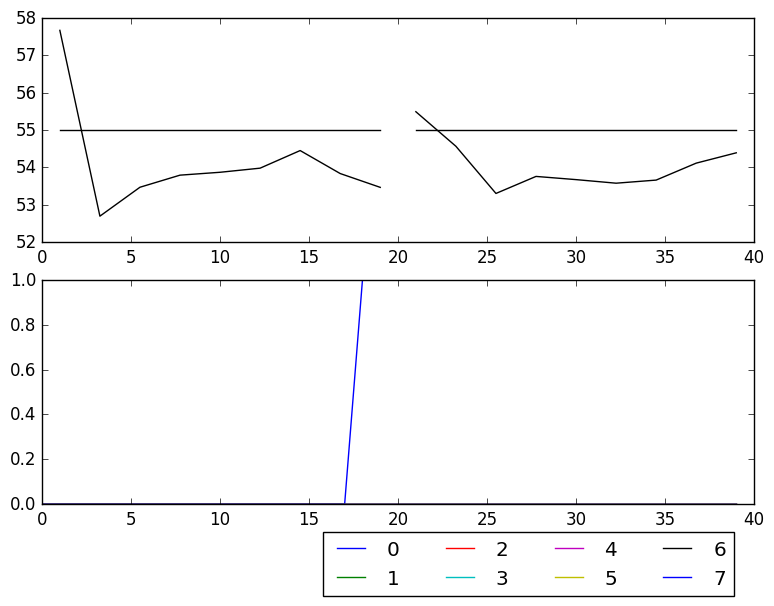
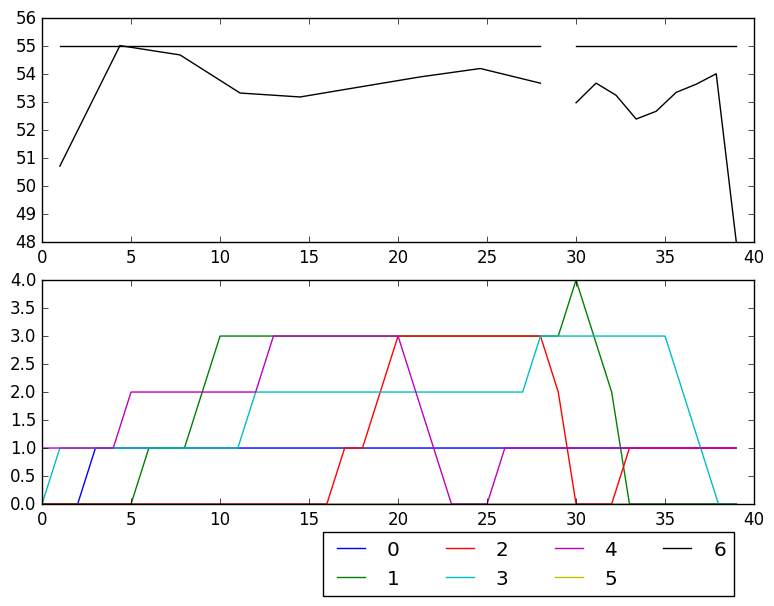
destination setting with ea

diff --git a/ea/sim_eval.py b/ea/sim_eval.py
@@ -21,10 +21,13 @@ class Stockyard(object):
     
 
     piles = None # rehandle stockpiles
+    stockpile_state = None # stockpile build model - indicates whether stockyard is in build or destroy mode  
+    stockpile_capacity = 4
+    
     npiles = 0 # number of rehandle stockpiles
     piles_n = None # number of blocks on stockpiles at timestep n     
     
-    def __init__(self,low, high, num_piles,ntime):
+    def __init__(self,low, high, num_piles,ntime, s_capacity=4):
         
         self.ntime = ntime
         self.piles = np.array(range (num_piles))
@@ -36,6 +39,8 @@ class Stockyard(object):
         # list of empty stacks: empty stockpiles
         self.stocks = [[] for i in range(num_piles)] #a = [[0] * number_cols for i in range(number_rows)]
         #self.example_thresholds()
+        self.stockpile_state = [1 for i in range(num_piles)] # 1 means pile is in build mode
+        self.stockpile_capacity = s_capacity
         
         
 
@@ -56,18 +61,20 @@ class Stockyard(object):
         print self.stocks_limits
         
 
+
+
     def set_example_thresholds(self):
-        self.npiles = NUM_PILES
+        #self.npiles = NUM_PILES
         self.stocks_limits = np.zeros((self.npiles,2))
         # pile zero is default catch all pile / dump - not used to reclaim
         self.stocks_limits = np.array([\
                                        [0,0],\
-                                       [50,57.5],\
-                                       [57.5,59],\
-                                       [59,60],\
-                                       [60,61],\
-                                       [55,57],\
-                                       [61,66]])
+                                       [48,51],\
+                                       [51,54],\
+                                       [54,57],\
+                                       [57,60],\
+                                       [61,63],\
+                                       [64,66]])
         # sort by the lower threshold:
         self.stocks_limits = self.stocks_limits[self.stocks_limits[:,0].argsort()]                              
         # min = 55, max = 66
@@ -96,13 +103,15 @@ class Stockyard(object):
         # get stockpile index
         # pile zero is default catch all pile / dump 
         # can set to -1 if not using catch all pile and raise exception or define other behaviour
+
         assert len(self.stocks) == len(self.stocks_limits), "%s %s" % (len(self.stocks) ,len(self.stocks_limits))
         
         pile_index = 0
         for ind in range(1,len(self.stocks)):
             if ( block >= self.stocks_limits[ind][0] and block < self.stocks_limits[ind][1] ) :
-                pile_index = ind
-                break
+                if (self.stockpile_state[ind] > 0): # is pile is in build state
+                    pile_index = ind
+                    break
 
 #        if pile_index is -1:
 #            pile_index = 0            
@@ -112,13 +121,17 @@ class Stockyard(object):
         self.stocks[pile_index].append(block)
         self.piles_n [pile_index,tt] = self.piles_n [pile_index,tt] + 1
         
+        # update build state
+        if ( len(self.stocks[pile_index]) >= self.stockpile_capacity ):
+            self.stockpile_state[ind] = 0 # set pile to reclaim state
+        
         return pile_index
 
     def available_stocks(self):
         av = []
         # pile zero is currently a catch all pile / dump - not used to reclaim just to track blocks that fall through thresholds as defined in stockpile list
         for i in range(1,len(self.stocks)) :
-            if len(self.stocks[i]) > 0 :
+            if len(self.stocks[i]) > 0 and self.stockpile_state[i] == 0: # are stocks and pile is in reclaim mode
                 av.append(i)
         return av
             
@@ -137,6 +150,12 @@ class Stockyard(object):
             if self.stocks_limits[pile_ind][0] >= target_grade:
                 block = self.stocks[pile_ind].pop() 
                 self.piles_n [pile_ind,tt] = self.piles_n [pile_ind,tt] - 1
+   
+                # update state to build if pile has become empty (build destroy logic)
+                if len(self.stocks[pile_ind]) == 0:
+                    self.stockpile_state[pile_ind] = 1
+                                            
+                
                 return block 
         
         # didn't find a block above the target quality so return highest grade available which is the highest index in available if stockpiles
@@ -144,6 +163,11 @@ class Stockyard(object):
         pile_ind = available[len(available)-1]
         block = self.stocks[pile_ind].pop() 
         self.piles_n [pile_ind,tt] = self.piles_n [pile_ind,tt] - 1
+
+        # update state to build mode in case any pile has become empty ( build destroy logic)        
+        if len(self.stocks[pile_ind]) == 0:
+            self.stockpile_state[pile_ind] = 1
+        
         return block                 
                 
 
@@ -163,6 +187,8 @@ class Stockpile_sim(object):
     npiles = 0 # number of rehandle stockpiles
     
     digggers = None # block sequence for each digging unit  
+    destinations = None # destinations of each block for each digging unit    
+    
     crusher_rate = 0 # blocks per time unit for crusher
 
     build_av = None
@@ -196,6 +222,9 @@ class Stockpile_sim(object):
         # mining sequence per dig unit
         self.diggers = self._load_digger_block_seq(self.ntime)
         print self.diggers
+        
+        self.destinations = self._set_random_dest(self.ntime)
+        print self.destinations
         
         # crusher model
         # blocks to crush per time period (one crusher)
@@ -244,6 +273,17 @@ class Stockpile_sim(object):
                 break
         
         return seq
+
+
+    def _set_random_dest(self, ntime):
+        assert self.diggers is not None
+        block_destinations = np.random.randint(2, size=(self.ndiggers, ntime))
+        
+        return block_destinations
+    
+    def set_destinations(self, digger, array):
+        print "<><><> set destinations <><><>"        
+        self.destinations[digger,:] = array
         
 
     def _get_digger_block_seq(self,ntime,values = None):
@@ -291,12 +331,13 @@ class Stockpile_sim(object):
                         self.upper[0,tt] = self.nblocks*self.target - build_n*self.build_av[0,tt] - (self.nblocks - build_n-1)*self.low
                         self.lower[0,tt] = self.nblocks*self.target - build_n*self.build_av[0,tt] - (self.nblocks - build_n-1)*self.high           
                     print "accept: "+str(self.lower[:,tt] ) +" \t"+str(self.upper[:,tt]) 
+                    print "dest to crusher: "+ str(self.destinations[jj,tt] ==0)
                     
                     
-                    #if self.dest_blk[jj,tt] is 0 :                    
-                    
-                    # Decide whether to send to a stockpile or to the crusher            
-                    if (block >= self.lower[:,tt] and block <= self.upper[:,tt]) : # send to crusher (build)                                  
+                    # Decide whether to send to a stockpile or to the crusher  
+                    # comment out one of the methods (either the business logic thresholds or the bit string logic)
+                    if self.destinations[jj,tt] == 0 :                                                                      
+                    #if (block >= self.lower[:,tt] and block <= self.upper[:,tt]) : # send to crusher (build)                                  
                         print "send to crusher"
                         print "build_n: "+str(build_n)
                                 
@@ -323,9 +364,13 @@ class Stockpile_sim(object):
         
                     else: # send to stockpile - ROM pad               
                         pile_index = self.stockyard.add_block(block, tt)
-                        
+                        print "***"
+                        print "stocks"
+                        print self.stockyard.stocks
                         print (("Send block to stockpile: %s %s"),block, pile_index)
-                        
+                        print "updated stocks"
+                        print self.stockyard.stocks
+                        print "***"
                 else:
                     print "Send to waste dump"
                 
@@ -337,6 +382,8 @@ class Stockpile_sim(object):
                 print "new grade: "+str(new_grade)
                 # take block from stockpile
                 grade = self.stockyard.get_block(new_grade, tt)
+                print "available grade: " +str (grade)
+                print self.stockyard.stocks
                 
                 if (grade is not None):
                                             
@@ -426,6 +473,7 @@ def test():
     s = Stockpile_sim()
     s.reset()
     s.stockyard.set_example_thresholds()
+    s.set_destinations(1,np.random.randint(0, size=(1, 40)) )
     s.run()
     s.plot_summary()
     return s

diff --git a/ea/destinations_ga.py b/ea/destinations_ga.py
@@ -1,0 +1,103 @@
+# -*- coding: utf-8 -*-
+"""
+Created on Tue May 23 15:27:48 2017
+
+@author: ag
+"""
+
+#    This file is part of DEAP.
+#
+#    DEAP is free software: you can redistribute it and/or modify
+#    it under the terms of the GNU Lesser General Public License as
+#    published by the Free Software Foundation, either version 3 of
+#    the License, or (at your option) any later version.
+#
+#    DEAP is distributed in the hope that it will be useful,
+#    but WITHOUT ANY WARRANTY; without even the implied warranty of
+#    MERCHANTABILITY or FITNESS FOR A PARTICULAR PURPOSE. See the
+#    GNU Lesser General Public License for more details.
+#
+#    You should have received a copy of the GNU Lesser General Public
+#    License along with DEAP. If not, see <http://www.gnu.org/licenses/>.
+
+import random
+
+import numpy
+
+import utils
+
+from deap import algorithms
+from deap import base
+from deap import creator
+from deap import tools
+
+creator.create("FitnessMax", base.Fitness, weights=(-1.0,))
+creator.create("Individual", numpy.ndarray, fitness=creator.FitnessMin)
+
+toolbox = base.Toolbox()
+
+toolbox.register("attr_bool", random.randint, 0, 1)
+toolbox.register("individual", tools.initRepeat, creator.Individual, toolbox.attr_bool, n=40)
+toolbox.register("population", tools.initRepeat, list, toolbox.individual)
+
+def evalOneMax(individual):
+    return sum(individual),
+
+def cxTwoPointCopy(ind1, ind2):
+    """Execute a two points crossover with copy on the input individuals. The
+    copy is required because the slicing in numpy returns a view of the data,
+    which leads to a self overwritting in the swap operation. It prevents
+    ::
+    
+        >>> import numpy
+        >>> a = numpy.array((1,2,3,4))
+        >>> b = numpy.array((5.6.7.8))
+        >>> a[1:3], b[1:3] = b[1:3], a[1:3]
+        >>> print(a)
+        [1 6 7 4]
+        >>> print(b)
+        [5 6 7 8]
+    """
+    size = len(ind1)
+    cxpoint1 = random.randint(1, size)
+    cxpoint2 = random.randint(1, size - 1)
+    if cxpoint2 >= cxpoint1:
+        cxpoint2 += 1
+    else: # Swap the two cx points
+        cxpoint1, cxpoint2 = cxpoint2, cxpoint1
+
+    ind1[cxpoint1:cxpoint2], ind2[cxpoint1:cxpoint2] \
+        = ind2[cxpoint1:cxpoint2].copy(), ind1[cxpoint1:cxpoint2].copy()
+        
+    return ind1, ind2
+    
+    
+toolbox.register("evaluate", utils.evaluate_destinations)
+toolbox.register("mate", cxTwoPointCopy)
+toolbox.register("mutate", tools.mutFlipBit, indpb=0.05)
+toolbox.register("select", tools.selTournament, tournsize=3)
+
+def main():
+    random.seed(64)
+    
+    pop = toolbox.population(n=100)
+    
+    # Numpy equality function (operators.eq) between two arrays returns the
+    # equality element wise, which raises an exception in the if similar()
+    # check of the hall of fame. Using a different equality function like
+    # numpy.array_equal or numpy.allclose solve this issue.
+    hof = tools.HallOfFame(1, similar=numpy.array_equal)
+    
+    stats = tools.Statistics(lambda ind: ind.fitness.values)
+    stats.register("avg", numpy.mean)
+    stats.register("std", numpy.std)
+    stats.register("min", numpy.min)
+    stats.register("max", numpy.max)
+    
+    algorithms.eaSimple(pop, toolbox, cxpb=0.5, mutpb=0.2, ngen=40, stats=stats,
+                        halloffame=hof)
+
+    return pop, stats, hof
+
+if __name__ == "__main__":
+    main()

diff --git a/ea/utils.py b/ea/utils.py
@@ -63,8 +63,28 @@ def evaluate(individual):
     fit = simulation.run()
     
     return fit,
+    
+def evaluate_destinations(individual):
+    simulation = sim.Stockpile_sim()
+    simulation.reset()
+    simulation.stockyard.set_example_thresholds()
+    simulation.set_destinations(0,individual)
+    fit = simulation.run()
+    
+    return fit,
 
-def plot_sim(individual):
+
+def plot_sim_dest_individual(individual):
+    simulation = sim.Stockpile_sim()
+    simulation.reset()
+    simulation.stockyard.set_example_thresholds()
+    simulation.set_destinations(0,individual)
+    simulation.run()
+    simulation.plot_summary()
+    
+    return simulation
+
+def plot_sim_threshold_individual(individual):
     
     simulation = sim.Stockpile_sim(num_stockpiles = len(individual) )
     
